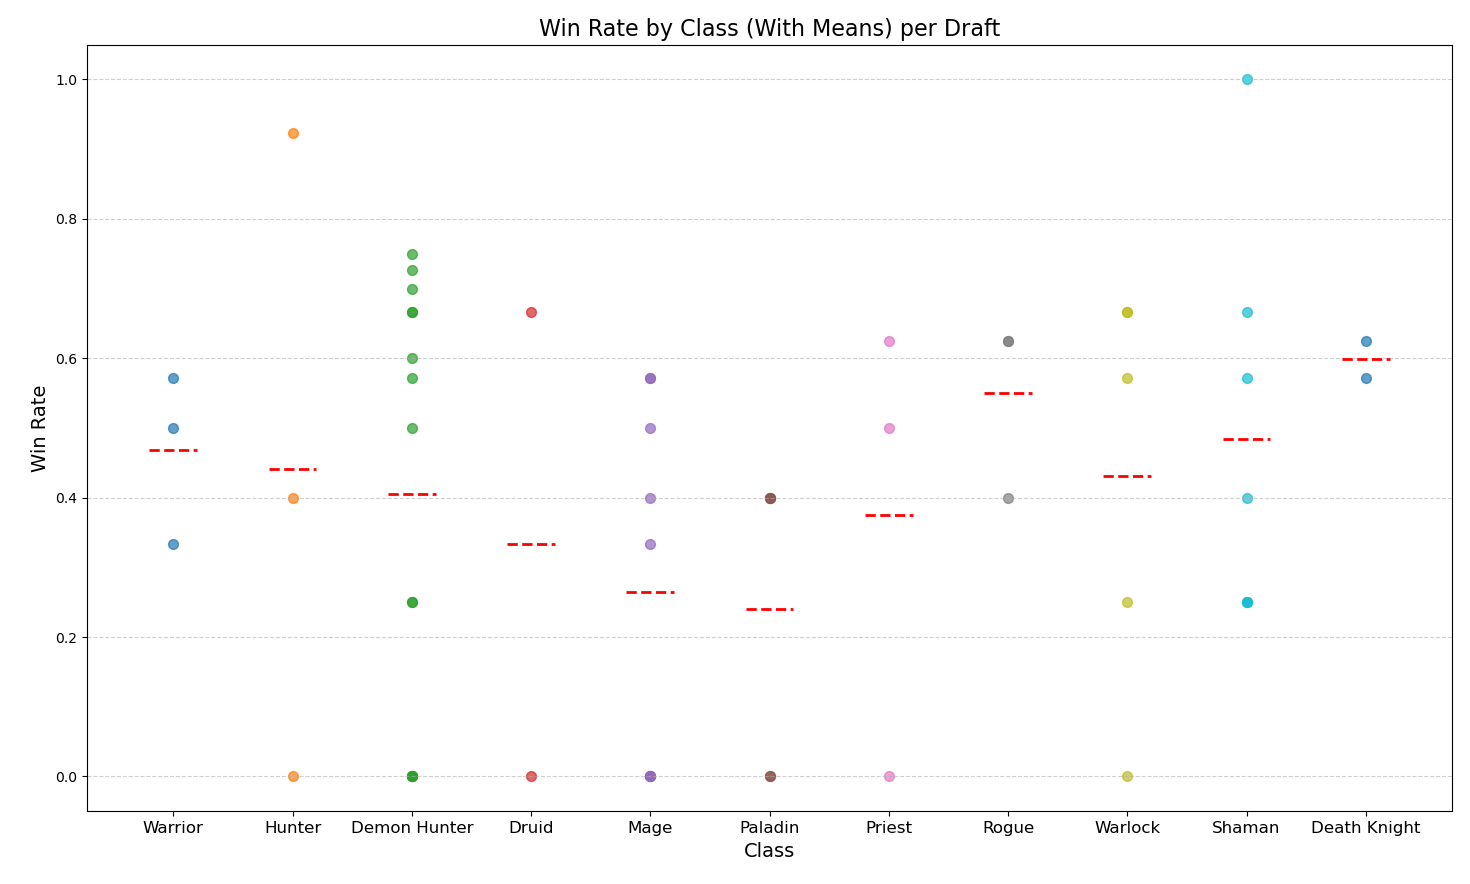
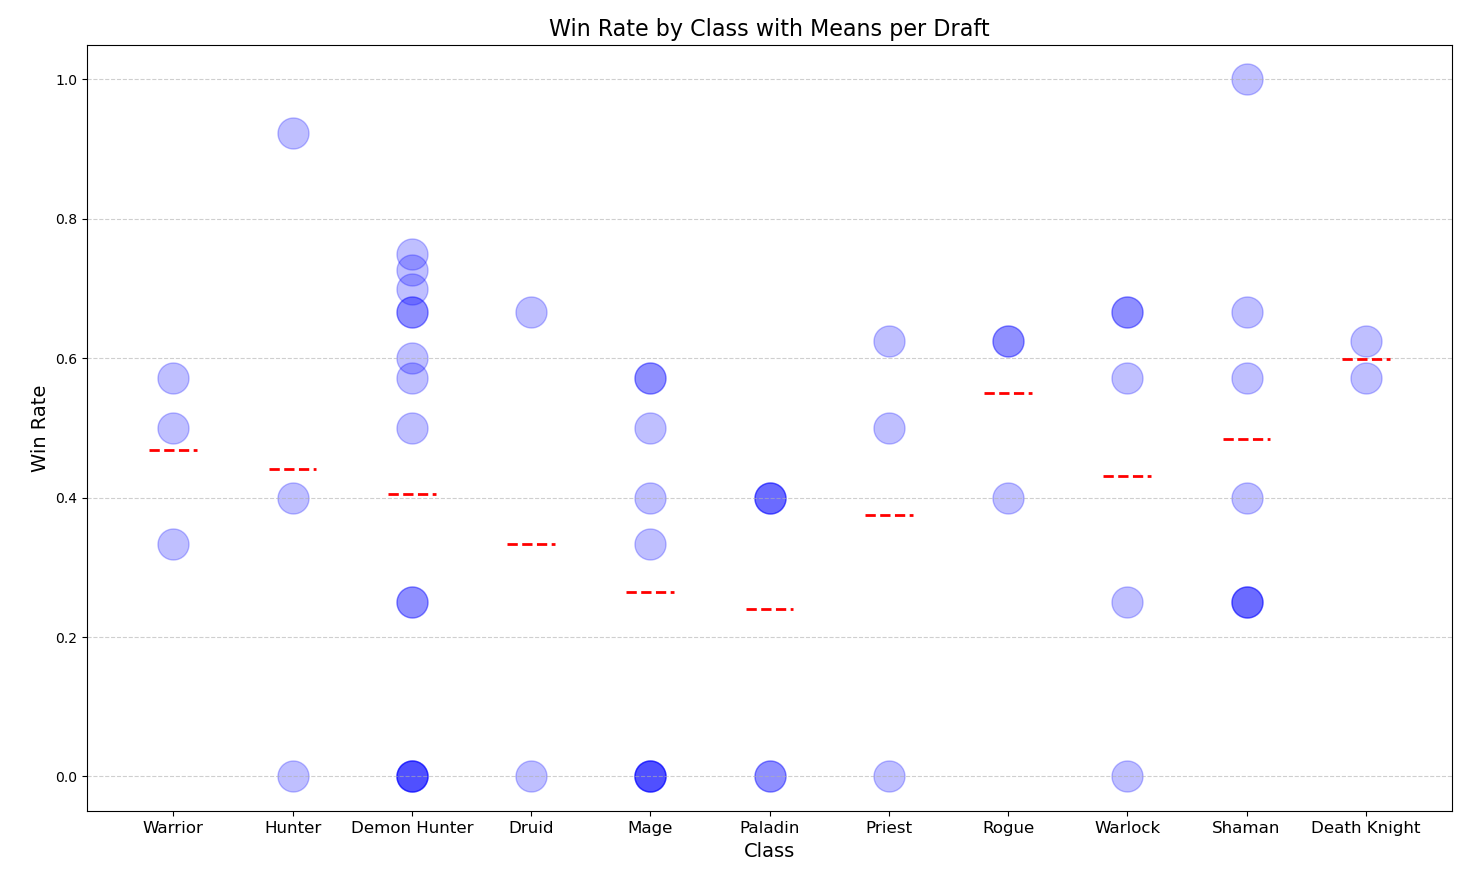
kw test

diff --git a/hearthstone/finding2.html b/hearthstone/finding2.html
@@ -26,7 +26,7 @@
             <h2>Validating ANOVA</h2>
             <h3>Independence</h3>
             <p>The measurements should be independent, i.e., the measured value of one group should not be influenced by the measured value of another group.</p>
-            <p>I assume independence relying on the assumption of this is a competitive game 🥴. I love being an undergrad.</p>
+            <p>I assume independence based on the fact that this is a competitive game 🥴. I love being an undergrad.</p>
 
             <h3>Homogeneity</h3>
             <p>The variances in each group should be approximately equal.</p>
@@ -53,12 +53,12 @@
 
         </div>
         <div class="container">
-            <h2>Kruskal Wallis</h2>
-            <p>Since normality violated and ANOVA is no longer valid, I conduct Kruskal Wallis.</p>
+            <h2>Kruskal-Wallis</h2>
+            <p>Since normality was violated and ANOVA is no longer valid, I conducted the Kruskal-Wallis test.</p>
             <img src="images/F2_2.png" alt="Graphic 2">
-            <div class="image-caption">Win rate by class with means.</div>
+            <div class="image-caption">Win rate by archetype with means, per draft.</div>
 
-            <p> HERE HERE HERE HERE</p>
+            <p>According to the Kruskal-Wallis test, I failed to reject the null hypothesis (p = 0.502).</p>
             <p>In conclusion, there are no significant differences in win rates among the archetypes.</p>
         </div>
         <!-- Add more containers as needed -->
